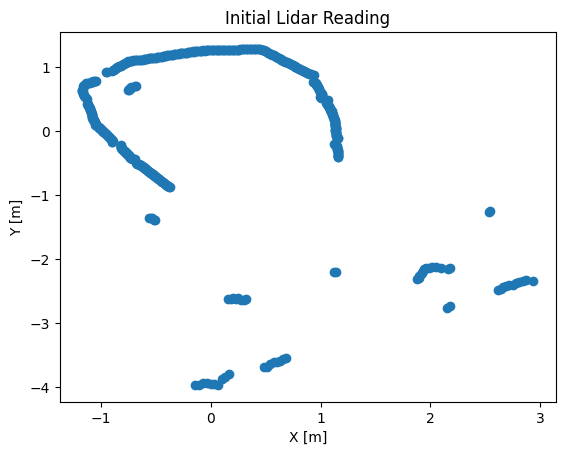
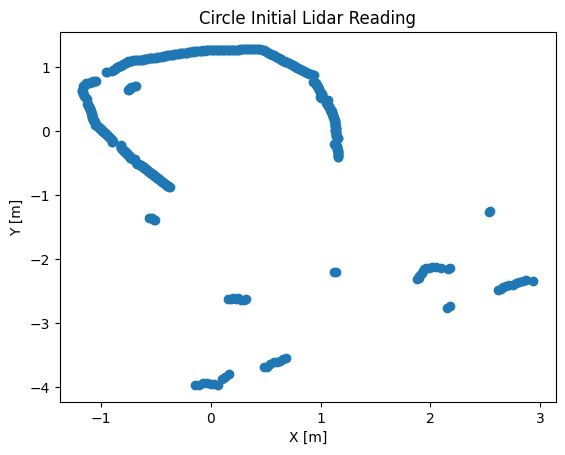
fix plot name

Changed region(s): [[0.331, 0.0, 0.7522, 0.0615]]

diff --git a/filePlotter.py b/filePlotter.py
@@ -87,7 +87,7 @@ def plot_laser(filename):
     plt.xlabel("X [m]")
     plt.ylabel("Y [m]")
 
-    plt.title("Initial Lidar Reading")
+    plt.title(f"{path_type} Initial Lidar Reading")
 
     plt.savefig(f"plots/{path_type.lower()}_lidar.png", transparent=True, bbox_inches='tight')
     
